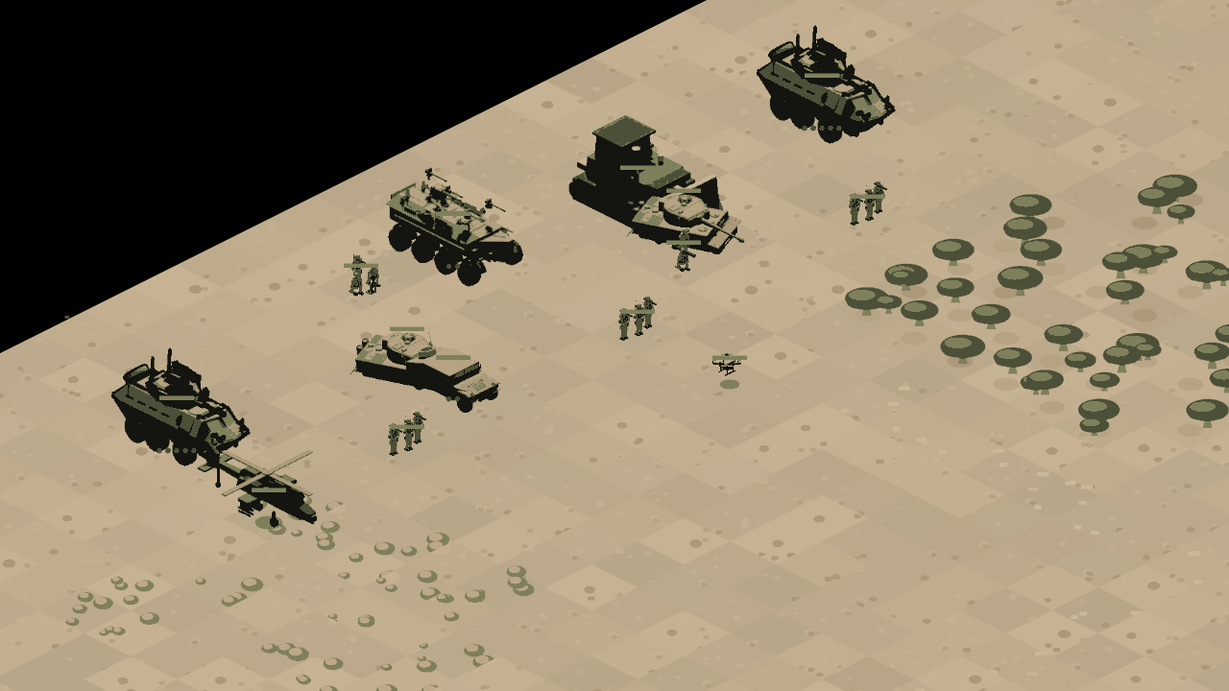
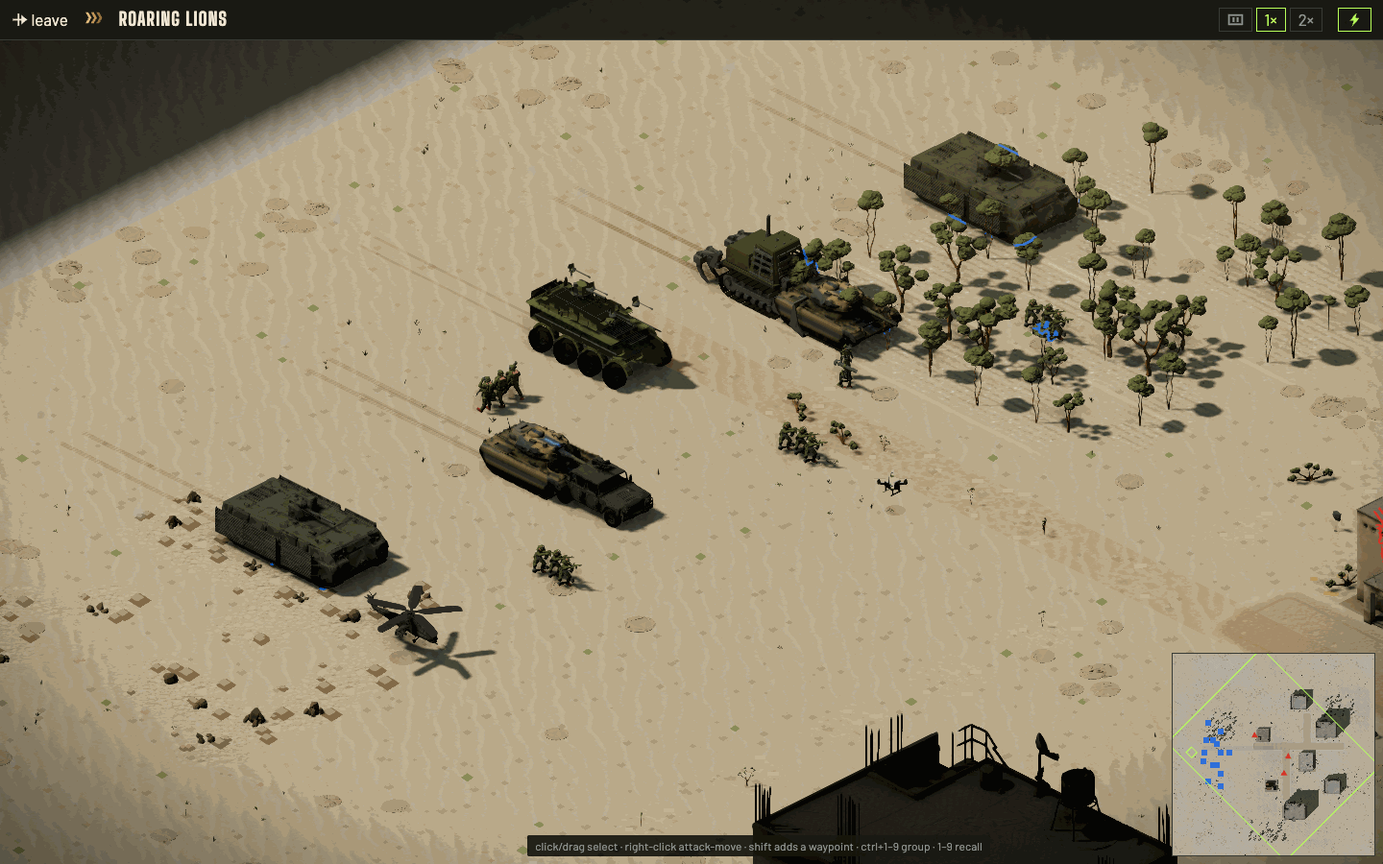
docs(readme): rewrite for the September build
Rewrite the README around the shipped three.js build: menu, Free play, controls, telemetry, campaign, brigade, presentation, audio, gates, CI, workspace and licence, every claim checked against the tree.
Recapture both screenshots from the lit mesh renderer (2026-09-30, 1440x900, octree-quantised PNGs under 300 KB) in place of the 2026-08-16 Pixi sprite frames.

diff --git a/README.md b/README.md
@@ -1,112 +1,144 @@
 # Roaring Lions
 
-A source-available, single-player real-time strategy game in the Command & Conquer tradition — 2:1 dimetric, TypeScript + three.js (PixiJS remains as a fallback via `?renderer=pixi`) — whose distinguishing claim is that combat **simulates real engagement odds** instead of trading hit points. Fights resolve through a detect → hit → penetrate → component-damage chain, and suppression, not damage, is the dominant battlefield force.
+A source-available real-time strategy game in the Command & Conquer tradition — 2:1 dimetric, TypeScript + three.js, a lit renderer drawing rigged 3D meshes (PixiJS remains as an unlit, sprite-only fallback via `?renderer=pixi`, slated for retirement) — whose distinguishing claim is that combat **simulates real engagement odds** instead of trading hit points. Fights resolve through a detect → hit → penetrate → component-damage chain, and suppression, not damage, is the dominant battlefield force. Single-player today; the sim is deterministic and command-driven so that multiplayer can follow.
 
 All geography and factions are fictional. Enemy forces are defined by military doctrine — tunnels and ambush, standoff fires, mobile raiding — never by ethnicity, nationality, or faith.
 
-![A company holds a walled compound against converging militia — tracers, suppression dust, and a burning approach](docs/screenshots/battle_wide.png)
+![First Light, ninety seconds in: a company holds a walled compound at dawn against militia converging from every approach — tracers, suppression, the reinforcements dock and the alert feed](docs/screenshots/battle_wide.png)
 
-## Status — M0 and M1 complete
-
-The combat model is the product, and it is calibrated: the backtest harness (`pnpm balance`) reproduces every validation target in the design document.
-
-| GDD §5.7 target | Measured |
-|---|---|
-| Urban assault needs ≈3:1 attacker:defender | 1:1 = 0% · 2:1 = 63% · **3:1 = 100%** · 4:1 = 100%<br>(was 1:1 = 0% · 2:1 = 15% · 3:1 = 95% · 4:1 = 100% before group formations, 2026-09-15; the old 2:1 was a stacking artifact) |
-| ATGM Pk vs unprotected armour ≈ 0.7 | **0.67** over 400 launches |
-| APS intercept 0.6–0.9 vs shaped charge | **0.73** |
-| Lanchester's square law emerges | 12v6 → 12.0 survivors (square-law predicts 10.4; linear 6) |
-| Air is contested by anti-aircraft fire | 1 gun truck → 80% survival · 3 → **0%** |
-
-M1 — the Beit Sahwan missions, campaign ledger and ROE scoring — is done. The programme now runs toward the next milestone, the commander's HUD and one visual register, due 30 October; the live ledger is [`docs/HANDOVER.md`](docs/HANDOVER.md).
+*Captured from the shipped three.js renderer on 2026-09-30 at 1440×900 (`beit_sahwan_breach`, sim tick 1300, zoom 1.0).*
 
 ## Play it
 
-**<https://roaring-lions.pint12.workers.dev>** — the current build.
+**<https://roaring-lions.pint12.workers.dev>** — the current build, served by a Cloudflare Worker built from `main`. Source and issues: <https://github.com/ilan-pinto/roaring-lions>.
 
-Pick a mission from the menu, or open the M0 sandbox. Left-drag selects,
-right-click orders, right-click a building garrisons the infantry that can
-enter it. `Ctrl`+`1`–`9` assigns a control group, `1`–`9` recalls it. Every
-roll the model makes is in the feed on the right; `o` hides it.
+The menu leads with where the campaign stands — "Start — <mission>" for a fresh player, "Continue — <mission>" once something has been played, gone once every mission is done — then Campaign and Brigade (and the tutorial by name until it is completed). Below that: replay the tutorial, free play on any map, Saves, Settings, New campaign (confirmed first; the brigade survives), the music/sound toggle, and Credits. The tutorial, *Beit Sahwan 0 — Working Up*, teaches the roster and control groups in 14 steps. Free play walks any shipped map with a full task force and optional extras — civilians with a refuge to shepherd them to, a pre-dug tunnel with two sapper squads to collapse it, the Sarim roster, an anti-tank ditch, no-fire ground — plus three diagnostic toggles (billboards instead of meshes, a showcase of every ground mark, a pre-kitted force).
+
+It needs a WebGL2-capable browser; the Pixi fallback is a manual switch, not an automatic one.
+
+The first minute:
+
+- Left-drag box-selects your units; a click that stays put selects the one unit under the cursor, and a click on empty ground clears the selection. A right-click on the ground is an attack-move — units engage what they meet on the way; there is no separate plain move from the mouse. `Shift` queues the order behind the current one.
+- Right-click a building and the troops that can enter it garrison it, while a demolisher — Combat Engineers or the D9 — levels it. Ordering an attack on a protected building (a hall) is refused unless `Alt` is held — the game will not spend your Conduct on an ambiguous click, and a note says why. A selection that is nothing but demolishers levels a protected building with no key needed.
+- `Ctrl`+`1`–`9` (`Cmd` on a Mac) assigns a control group, `1`–`9` recalls it, and a second tap within 400 ms centres the camera on it. `Ctrl`+`A` (`Cmd`+`A`) selects every unit; `Tab` cycles the HUD chips.
+- `h` halts, `f` lays smoke at the cursor, `g`/`u` load and unload, `i` selects the next idle unit, `Space` jumps to the latest alert, `b` focuses the reinforcements dock, `m` mutes. `W`/`S`/`A`/`D` and the arrows pan; the wheel zooms; the minimap takes right-click orders too. `F1` lists every binding, `Esc` backs out of whatever is open or armed and otherwise pauses, and every binding except `Tab` and `Esc` can be rebound under Settings › Controls; the control-group digits, the arrow keys and the mouse buttons are fixed.
+- With units selected, hover a visible enemy and the *Projected fire* panel beside it shows each unit's hit chance — and what is degrading it — before you commit to the shot. Press `o` (rebindable) to open the debug overlay — while it is open, every hit, penetration and APS roll the model makes streams through its feed with the full factor breakdown.
+
+The live build sends play telemetry to `/api/events` on the same origin: a random player id kept in `localStorage`, a per-load session id, and session, tutorial-step, heartbeat, mission start/objective/end, campaign-progress and brigade-account events (credits, unlocks, upgrades, purchases, unit and order counts). The game's own database keeps no e-mail, IP or URL — the connecting IP is used only in memory to rate-limit — but Cloudflare's persisted Workers Logs and traces keep each request URL with its query string, so a `?tester=` label lands there too. It is off in dev builds and on localhost unless `?telemetry` is on the URL, honours Global Privacy Control and Do Not Track (which win even over `?telemetry`), and `?notrack` opts out and persists that choice in `localStorage`; `?tester=<name>` labels a tester cohort. Aggregates are read on `/stats`, which is password-protected.
 
 ## What is in it
 
-![The roster in the sandbox — armour, an APC, a dozer, a gunship, infantry and a recon drone](docs/screenshots/units.png)
+![The Free play task force on Beit Sahwan's outskirts — two Lavi tanks, two Namers, an Eitan, the D9, a jeep, a Peten gunship, infantry, an AT team, a mortar team and a recon drone, drawn as lit 3D meshes](docs/screenshots/units.png)
 
-**Combat.** Detection, six-factor hit resolution, penetration curves, component
-damage (mobility and firepower kills are separate outcomes), APS interception,
-suppression and rout. Hover a target to see the projected hit chance before you
-commit to the shot.
+*Captured from the shipped three.js renderer on 2026-09-30 at 1440×900 (`/free-play/beit_sahwan_outskirts`, the force walked five tiles off its assembly point, zoom 1.6).*
 
-**Missions.** Five authored missions in Beit Sahwan — a tutorial that teaches
-the roster and control groups, a recon sweep, a foothold, a clearance, and the
-First Light defence. Objectives are declarative data, never TypeScript:
-`survive_until`, `hold_for`, `locate`, `capture`, `eliminate_hvt`,
-`destroy_all`, `evacuate_before`. Missions target 5–7 minutes, so a balance
-change can actually be re-tested.
+**Combat.** Detection, six-factor hit resolution, penetration curves, component damage (mobility and firepower kills are separate outcomes), APS interception, suppression and rout. Cover is the big lever: `COVER_HIT` steps 1 / .375 / .1375 / .09 and `COVER_SUPP` 1 / .475 / .1375 / .09 — a dug-in target is both harder to hit and harder to pin, which is why clearing a held town takes roughly 3:1. Every knob the balance backtest calibrates against the GDD §5.7 targets lives in `packages/sim/src/tuning.ts`, mostly as raw Q16.16 integers with the decimal value in a trailing comment (tick counts, shifts and percent weights are plain integers), sectioned by GDD §5.1–5.6 followed by projectiles, veterancy, movement, smoke and the other ability knobs.
 
-**Campaign.** A ledger carries surviving units, Conduct ratings and intel between
-missions, with a world map of the Sahar Basin. Rules of engagement are scored,
-and unit unlocks are gated on that score — collateral damage costs you options
-rather than a lecture.
+**Missions and campaign.** 27 mission files: 26 campaign missions plus the tutorial. Three fronts open in order on a 3D diorama of the Sahar Basin that you turn by drag, arrow keys or the rotate buttons (a flat map stands in on the Pixi renderer, or when WebGL2 or the board mesh is unavailable): the Marj Strip (Beit Sahwan 5, Khan Rafid 3, Deir Amun 3), Sur (Tel Marum 3, Qarn Hadid 3, Umm Zeitoun 4) and Naharin (Wadi Halam 5). The war opens with *First Light*, a dawn siege — what is left of a company holds a compound on the Beit Sahwan road until the relief column arrives, the one mission whose lead phase is `breach`; every other mission is led by one of the five remaining phases — recon, foothold, build-up, clearance or subterranean. Each town shows missions done and stars earned, each front carries a villain card, and the board keeps the account of the 19 taken, moved only by rescues. Objectives are declarative data, never TypeScript: the schema's vocabulary is twelve types — `locate`, `hold_for`, `survive_until`, `capture`, `eliminate_hvt`, `evacuate_before`, `collapse`, `raze`, `destroy_all`, plus `mark`, `escort` and `no_collateral_above`, which the schema accepts but the runtime rejects (`MissionRuntime` throws on them) and no mission uses. Every shipped mission declares `target_minutes` (all 27 do, 5–7 minutes, tutorial 10), and the schema caps the value: `minimum: 5`, `maximum: 7` via an `if/then/else` at the schema root whose one named exemption is `beit_sahwan_0_tutorial` at 10. The field itself is optional (`default: 6`). The sim never reads it and it is never graded; the app shows it on the post-mission debrief as "Time: {clock} of {target}:00", and the Worker's /stats page shows it as each mission's Target column. `pnpm playtest` proves each of the 26 campaign missions winnable by a scripted plan (the tutorial is a step machine driven by player input and has no plan).
 
-**Command.** Control groups, attack-move that sweeps toward last contact instead
-of stalling, garrisoning, smoke screens, field production and reinforcement, and
-intel sinks — a satellite sweep and a precision strike.
+**Conduct and progression.** Every mission scores Conduct 0–100 — civilian casualties, damage to flagged structures and disproportionate ordnance deduct — and each victory is graded ★ (won), ★★ (Conduct at or above the mission's floor + 20, or 70 where none is declared) or ★★★ (Ari'im citation: every carrying secondary complete — a mission with none caps at ★★, and only 7 of the 27 missions declare one). A ledger carries named units with a service record (150 on strength, the overflow in reserve), Conduct ratings, stars, intel, evacuated civilians and recovered hostages between missions; promotion runs Captain → Major → Lieutenant Colonel → Colonel. Units unlock on campaign-average Conduct (floors of 70–90 on nine units, `mbt_lavi` at 90), on total stars (12, 30 and 44 for `breach_team`, `scout_shachaf` and `apc_kipod`), or by paying a price in credits — the earned path is always free, and collateral damage costs you options rather than a lecture.
 
-**Presentation.** Sprites rendered through a locked 36-colour palette and a
-Blender rig, speed-linked walk cycles, turret settle, recoil and hit flinch,
-persistent wreckage, and data-driven VFX emitters authored as JSON. The
-simulation never sees any of it — invariant 4 is one-way.
+**Brigade.** A campaign win pays credits: 100 for the win, 40 per carrying secondary completed, 10 per starting-force unit brought home, 1 per Conduct point over the ★★ floor; a replay pays only the improvement, a defeat nothing. Spend them in the garage: open a gated unit early, or buy three-tier `armour`, `sensors` and `firepower` tracks that apply to every unit of that type — each track priced on its own, so `inf_squad` armour runs 115/175/250 while its firepower runs 145/220/305, and `mbt_lavi` armour runs 360/545/770 against 455/680/950 for firepower (the D9 and the recon drone carry armour and sensors only). Bought tiers are applied by a pure pre-pass (`applyUpgrades` in `@lions/data`, run by the app before `sim.addUnitType`), so the sim registers already-patched unit JSON and never learns a tier exists. Credits are priced separately by `creditsFor` in `@lions/sim`, which the simulation itself never calls — only the app and the playtest harness do. The account survives a new campaign. Credits are never sold; three bought-only special-forces units are designed and staged under `docs/campaign/special_units/e5/`, not shipped.
+
+**Command.** Control groups with a group bar, attack-move that sweeps toward last contact instead of stalling, garrisoning, mount/dismount, smoke screens (carried by nine KDF types), demolition, field production and reinforcement from a dock, and intel sinks — a satellite sweep and a precision strike. Around the fight: an alert feed, an objectives tracker, a 210×210 minimap that shows the whole map but only the enemies you are currently observing, a pause menu with settings, save slots with export and import, a deploy screen that picks which veterans fill a mission's slots, and a debrief with Conduct deductions by reason, losses by name and the credit payout.
+
+**Presentation.** A lit three.js renderer since v0.63.0 (2026-09-15) — one directional sun with a map-wide shadow map, a hemisphere sky/ground bounce, ACES tone mapping with sRGB output, and a post chain with ambient occlusion (GTAO) and SMAA antialiasing; since v0.70.0 (2026-09-18) the video-quality preset gates it — `high` (the default) keeps AO, SMAA and a 4096 shadow map, `medium` drops AO, `low` drops both and halves the shadow map again. It draws rigged meshes for every unit, vehicle and building: 89 GLBs, Draco-encoded to 27.04 MiB in `assets/meshes/`, loaded per mission roster. Infantry crossfade between clips (code-authored in `rig.py` for the kit-built teams, supplied for the Meshy ones) and die on screen — three teams play an authored fall, the rest topple figure by figure into a prone wreck pose; vehicles pitch, roll and settle under motion and leave a persistent 3D wreck. The ground is a smooth surface over tile centres (the sim reads only the integer grid), splat-blended, with roads that read as tracks, a decal pool, clustered scatter, props, trees that sway, dust haze and dawn/day/dusk/night presets a mission can set (`night` currently lights as dusk). Mortar bombs and rockets arc, tank and autocannon rounds fly as bolts, the Spike climbs and dives onto the roof while other guided missiles weave in low, and every vehicle kill has a blast with a real light, screen shake and hit-stop. Colour is still authored from `data/palette.json` — 41 ramp colours plus runtime-only VFX, team and control-group bands (18 colours) and the team band's colour-vision-deficiency variants, 71 declared slots in all — as the input to lighting, but the per-pixel palette guarantee was retired on this backend on 2026-09-14. Sprite sheets still ship too — 43 sheets, 3,787 PNGs, 63.4 MiB in `assets/sprites/` — and not only for `?renderer=pixi` and `&nomesh`: the default renderer still draws the six unit types with no GLB (`gun_truck`, the three drones, `manpad_team`, `recoilless_team`) from their sheets, falls back to a sheet wreck for a vehicle whose GLB has no `wreck` clip, and billboards a just-built unit until its mesh lands. The simulation never sees any of it (Architecture, invariant 4).
+
+**Audio.** Music, SFX sets and voice lines are declared in `data/audio.json` and gated by `pnpm validate:audio`. A voice director picks one line per gesture from the cursor's winning verb and degrades repeats line → acknowledgement → silence; the brigade speaks Hebrew, Ashwar, Sarim and Rif speak Arabic, civilians are silent. Ten Hebrew voice files ship so far — five recordings covering four of the manifest's twenty Hebrew lines (ack, move, attack, and two takes of death), each in ogg and m4a — and no Arabic ones; a line with no recording plays nothing and is noted once per key in dev builds, never raised as an error. Every unplaced voice line — an order acknowledged, a KDF death called in, the radio in the player's ear — passes through a 300–3400 Hz radio band; enemy death lines are placed in the world instead and skip it. The walkie-talkie effect (drive, compression, key-up click, squelch, noise bed) is on by default and applied at playback, so the files stay clean. A captions setting prints the line's English text above the order row.
+
+## Status
+
+The combat model is the product, and it is calibrated. `pnpm balance` runs six cases twice — on the shipped roster and again with every KDF unit at its maximum upgrade tiers — and both tables must pass; it exits 1 on any miss, takes roughly 40–50 s on Apple silicon (two runs on 2026-09-30 printed 45.4 s and 48.6 s; the figure moves with machine load) and runs in CI on every PR and every push to main. Four cases are the GDD §5.7 targets; the air case is the harness's own addition, and the smoke step is a separate GDD-specified case (lead ruling D1, 2026-09-29) that §5.7 deliberately keeps outside the four model targets. The GDD's three extended targets (ambush, standoff, raid) are not measured by anything yet.
+
+| Backtest case | Base roster | Max upgrade tier |
+|---|---|---|
+| Urban assault needs ≈3:1 attacker:defender (60 seeds per ratio) | 1:1 = 0% · 2:1 = 63% · **3:1 = 100%** · 4:1 = 100% | 1:1 = 0% · 2:1 = 55% · **3:1 = 80%** · 4:1 = 98% |
+| Smoke buys exactly one ratio step (one screen per assault group) | 1:1+smoke = 0% · **2:1+smoke = 100%** (60/60) | 1:1+smoke = 0% · **2:1+smoke = 97%** (58/60) |
+| ATGM Pk vs unprotected armour ≈ 0.7 (0.60–0.80) | **0.67** over 400 launches | **0.77** over 400 launches |
+| APS intercept 0.6–0.9 vs shaped charge | **0.73** over 400 engagements | **0.73** over 400 engagements |
+| Lanchester's square law emerges (20 seeds per case) | 12v6 → 12.0 survivors (square 10.4, linear 6) · 16v8 → 16.0 (square 13.9, linear 8) | same |
+| Air is contested by AA (harness target, not in GDD §5.7; 30 seeds per case) | 1 gun truck → 80% survival · 2 → 0% · 3 → **0%** | 1 → 100% · 2 → 30% · 3 → **30%** |
+
+Before group formations landed (2026-09-15) the urban 2:1 read 15%, and that was a stacking artifact — every group member sent to one tile inside the near-miss suppression radius — not a property of the town. Where the GDD's formula text and its §5.7 targets disagree, a passing backtest wins.
+
+Done: the calibrated combat model (M0) and the Beit Sahwan arc with its campaign ledger and Conduct scoring, and six more town arcs followed — 26 campaign missions in seven towns, plus a tutorial, as of v0.94.0. The shell upgrade has landed its first three phases — a router, settings, a pause menu, save slots, an alert feed, an objectives tracker, the minimap and the garage — and unit voices arrived beside it as their own audio work; Phase 3's remaining half (deploy as a decision, victory and defeat moments, and the art pass over garage plates, portraits, key art and the campaign board) is in flight, and Phase 4 (Steam Deck, controller) is unscheduled. The programme now runs toward the commander's HUD and one visual register, due 30 October 2026 (the ledger's M1; then 27 November, 12 February and 16 April 2027). The live ledger is [`docs/HANDOVER.md`](docs/HANDOVER.md).
 
 ## Quickstart
 
+Node 22 (what CI runs; the repo does not pin Node, and the lead develops on Node 25 — the one known difference is vitest's jsdom `localStorage`) and pnpm 11.17.0 (the `packageManager` pin in `package.json`). The sprite gate needs Python 3 with `numpy` and `pillow`, and the audio gate needs Python 3 with `numpy`; the mesh gate needs both of those plus Blender (CI installs 5.2.0), found through `BLENDER_BIN`, `blender` on `PATH`, the macOS `/Applications/Blender.app`, or `--blender`; the visual gate and the UI tools need Playwright Chromium.
+
 ```bash
 pnpm install
-pnpm dev          # M0 sandbox: click to select, right-click to attack-move
+pnpm dev          # Vite on http://localhost:5173 — the main menu; /free-play/<map id> (or ?sandbox=<map id>) walks a map without a mission
 ```
 
-In the sandbox, every roll the model makes — detection probability, the six hit factors, penetration curve, component result, APS intercept, suppression — streams through the debug overlay. `window.__lions.step(n)` in the console fast-forwards n deterministic ticks.
+On any battlefield — a mission or Free play — press `o` to open the debug overlay: every hit, penetration and APS roll the model makes while it is open streams through it — a status pane on the left, the roll feed on the right; it is off by default. In the console, `__lions.help()` (also printed automatically on every Free play boot) prints the map that loaded, which flags are on, the Free play extras (`&roe`, `&tunnel`, `&sur`, `&civ`, `&ditch`, `&nomesh`, `&decals`, `&kit`, plus `&tod=dawn|day|dusk|night`), every shipped map id, and the console helpers it lists — `step(n)`, `goto(marker)`, `units()`, `sel([id])`, `cursorKey()`, `voiceLog()`; `hover(x, y)` is on `__lions` too but is not in the printed line. Other URL parameters the build reads (`renderer`, `lang`, `nosw`, `pseudo`, `voicetick`, `fresh`, `tutorial`) are not printed by help. `__lions` exists only on a battlefield; the menu defines none.
 
-| Command | What it does |
-|---|---|
-| `pnpm test` | unit tests |
-| `pnpm test:determinism` | 1000-tick replay against a pinned state hash |
-| `pnpm lint` | includes mechanical enforcement of the sim invariants |
-| `pnpm validate:data` | JSON Schema gate on all content |
-| `pnpm validate:assets` | palette + silhouette gate (needs `numpy`, `pillow`) |
-| `pnpm validate:ui` | rejects colour literals in UI source |
-| `pnpm balance` | headless backtest against the §5.7 targets |
+| Command | What it does | Needs |
+|---|---|---|
+| `pnpm test` | unit tests — 366 files, 7,472 specs; roughly 1¼ min locally (72–80 s over two runs, 2026-09-30) | — |
+| `pnpm test:determinism` | 1000-tick replay against the pinned hash `2109596329`; CI runs it on Linux, macOS and Windows | — |
+| `pnpm typecheck` | `tsc --noEmit` across the workspace | — |
+| `pnpm lint` | eslint; inside `@lions/sim` it bans `Math`, `Date`, wall-clock APIs, `crypto`, float literals and any non-relative import (invariants 1–3), and it pins the `app → render → sim` dependency direction and the dynamic-import-only rule for the three.js and Pixi entry points | — |
+| `pnpm validate:data` | JSON Schema gate on every content file — units, missions, VFX, maps, the tutorial, the campaign (`world`, `countries`, `commander`, `names`) and the menu diorama — plus palette, structure and cross-reference sanity checks | — |
+| `pnpm validate:assets` | sprite gate: palette and reserved-band colours, binary alpha, framing, manifest/sheet completeness, silhouette fill and pairwise-silhouette IoU on every sheet in `assets/sprites/` | Python 3, `numpy`, `pillow` |
+| `pnpm validate:meshes` | the same checks on every unit, building and vehicle GLB under `art/meshes/`, rendered headlessly through Blender (textured buildings skip the palette check), plus the building-facing gate and the vehicle wreck contract; `decor/`, `props/`, `vfx/` and `campaign/` GLBs are contract-checked from the raw bytes and never rendered | Python 3, Blender 5.2, `numpy`, `pillow` |
+| `pnpm validate:ui` | UI source gate: no colour literals, no unresolved tokens and no raw `--rl-*` outside `theme.css`, no untagged layout `px`, no retired dingbat glyphs, and no bare chrome string assigned straight to the DOM | — |
+| `pnpm validate:audio` | licence, source, format, size and gain gate on every clip and voice line | Python 3, `numpy` |
+| `pnpm balance` | the six backtest cases above, base and max-tier rosters; exits 1 on any miss | — |
+| `pnpm playtest` | every campaign mission (26 of the 27 authored; the player-driven tutorial is excluded) must be won at ★★ or better within 20 minutes by a scripted plan through the real sim and mission runtime, headless, and each town's passive no-orders control must lose | — |
+| `pnpm perf:units` | times `sim.tick()` at 65, 150, 300 and 400 units, fails past a budget | — |
+| `pnpm encode:meshes` | Draco-compress `art/meshes/` into the `assets/meshes/` that ships (`-- --check` in CI) | — |
+| `pnpm golden-baseline` | three-vs-three visual gate against `tools/golden-baselines/<envKey>/`; `:bless -- --reason="…"` accepts a change; exit 3 means no baseline for this environment | Playwright Chromium |
+| `pnpm ui:routes` | Playwright walk of the shell in one realm: leave a mission and soft-boot another with no reload and nothing left behind, then the garage, unit voices, the kit sign on every icon, and a guard that no telemetry is sent; starts its own dev server (`--port=<n>`, default 5177) | Playwright Chromium |
+| `pnpm ui:shots` | screenshot 34 named shell screens and HUD states (menu, campaign, brigade, briefing, HUD, pause, settings, credits, saves, outcome, debrief …) at 1400×900, 1920×1080 and 2560×1440 into `.superpowers/ui-shots/`; boots its own dev server on :5176 | Playwright Chromium |
+| `pnpm meshy -- <cmd>` | Meshy text/image-to-3D proxy with an estimate before any spend and a ledger | `MESHY_API_KEY` or `~/.config/roaring-lions/meshy.env` |
+| `pnpm build` | production build to `packages/app/dist`, what the Cloudflare Worker serves | — |
 
-Two headless walkers exist for content that no unit test can see, because each
-test builds its own small world rather than loading an authored one:
+The cost-curve gate, `python tools/validate_balance.py`, has no pnpm script; CI runs it four times (base roster and the staged special units, each again at max tier).
+
+CI (`.github/workflows/ci.yml`) runs on every pull request and every push to `main`: a `gates` job running lint, typecheck, test, every validator, `encode:meshes -- --check`, the cost-curve gate, `balance`, `playtest`, `perf:units` and `build`; a `visual` job with the golden gate and `ui:routes`; `test:determinism` on Ubuntu, macOS and Windows; and a `version` job that, once all three pass on a push to `main`, bumps the version and tags a release when the commits since the last tag include a `feat` (minor) or `fix` (patch) — docs-only merges cut nothing. A nightly (`visual-baseline.yml`, scheduled for 03:00 UTC — recent runs have actually started around 08:30–09:40 UTC) re-runs the visual gate against the committed Linux baseline and, on any failure, opens or comments on a single `visual-baseline` issue rather than filing a new one each night. Cloudflare's GitHub integration adds a `Workers Builds: roaring-lions` check to each pull request (observed on the five most recent, docs-only included); that check is configured in the Cloudflare dashboard, not in this repository.
+
+Three headless walkers — `walk_mission.ts`, `walk_placements.ts` and `walk_carryover.ts` under `tools/src/` — load an authored mission the way the app does and print what it actually does at chosen times, which is how content bugs that pass every fixture-based test (a trigger naming an undeclared group, a drop timed after the carrier has driven past) get found. None is a pnpm script, and `tsx` is a devDependency of the tools workspace only, so each runs through it:
 
 ```bash
-npx tsx tools/src/walk_mission.ts beit_sahwan_breach 0 60 150 300
+pnpm --filter @lions/tools exec tsx src/walk_mission.ts beit_sahwan_breach 0 60 150 300   # the real mission's world at chosen seconds
+pnpm --filter @lions/tools exec tsx src/walk_placements.ts wadi_halam_5_depot              # the map with every placement overlaid; fails on a bad one
+pnpm --filter @lions/tools exec tsx src/walk_carryover.ts                                  # Beit Sahwan I's recon intel (intel.marked_positions) carried into III: fresh vs carried spawns side by side, fails on a tag the two missions disagree on
 ```
 
-prints the real mission's world at chosen seconds — the tool that catches a
-trigger timed past the end of a mission, or a group nothing commits.
+The first is the tool that catches a trigger timed past the end of a mission, or a group nothing commits.
 
 ## Architecture
 
-pnpm workspace, one-way dependency direction: `app → render → sim`, with `data` as a leaf and `tools` alongside.
+pnpm workspace with a one-way dependency direction: `app → render → sim`, with `data` a leaf that `app`, `tools` and `worker` also import; `tools` sits alongside (it may import `sim` and `data` only), and `packages/worker` — the Cloudflare Worker that serves the build and the telemetry endpoints (`/api/events` into D1, `/stats`) — imports only `data`. Lint enforces the direction for `sim`, `render`, `data` and `tools`. The renderer sits behind one interface (`packages/render/src/api.ts`), and both backends arrive by dynamic import, so a player downloads only the one they run.
 
 Four load-bearing invariants (see `CLAUDE.md`):
 
-1. The sim runs a fixed 20 Hz tick; the renderer interpolates.
-2. `@lions/sim` is Q16.16 fixed-point — no floats, no `Math.*`, enforced by lint. Trig/exp/Φ come from committed lookup tables.
+1. The sim runs a fixed 20 Hz tick; the renderer interpolates between ticks on every frame.
+2. `@lions/sim` is Q16.16 fixed-point (`fixed.ts`, `ONE = 65536`). Lint bans `Math`, `Date`, `parseFloat`, wall-clock timers, `crypto` and float literals in `packages/sim/src` (test files exempt, so they can use `Math` as an oracle); `pnpm test:determinism` pins the replay hash. Trig/exp/Φ come from committed lookup tables (`packages/sim/src/gen/tables.ts`); `pnpm gen:luts` regenerates them, and the sim reads the committed integers rather than computing them, so another engine's `Math.*` cannot leak into the sim at all. Only the committed file is the source of truth: regenerating on a different engine can move an entry by 1 ulp, and the determinism hash catches that only where the replay reads that entry, so a regenerated table must be diffed, not trusted.
 3. All randomness is a seeded per-entity PRNG — entity counts can change mid-mission without reshuffling anyone's rolls.
 4. Commands in → sim → state + events out. Nothing outside the sim mutates sim state.
 
-Determinism is not aspirational: CI replays 1000 ticks on Linux, macOS, and Windows and asserts the same golden hash.
+Determinism is not aspirational: `pnpm test:determinism` replays 1000 ticks from seed `0x1310_0001` twice and asserts the golden hash `2109596329`, and CI runs it on Linux, macOS and Windows. Content is JSON validated against `data/schemas/`; a new unit is JSON plus art — a mesh, and a sprite sheet for the billboard path — and the sim never changes for it, though the app's asset tables (`mesh-catalogue.ts`, `SPRITE_MAP`) still need an entry.
 
 ## Contributing
 
-Read `CONTRIBUTING.md` first — units, missions, VFX, and maps are JSON gated by validators; art goes through a locked render rig with a 36-colour palette and a silhouette-readability check. The cost-curve and headless-battle gates mean balance arguments are had with evidence.
+Read `CONTRIBUTING.md` first — units, missions, VFX and maps are JSON gated by validators (missions target 5–7 minutes and the schema is the authority, where `CONTRIBUTING.md` still says 12–20), and `python tools/validate_balance.py` holds every non-civilian unit to within ±18% of the fitted cost curve. Sprites go through the locked render rig (`tools/render_rig.py`) and `pnpm validate:assets`, which enforces exact palette match, binary alpha, framing, minimum fill and a pairwise silhouette-readability check (IoU under 0.88 at gameplay zoom). Meshes go through `pnpm validate:meshes`, which renders every unit, vehicle and building GLB headlessly and reuses those same checks — except that thirteen named textured buildings and vehicles are exempt from the palette, framing and fill checks and keep only the silhouette check, and decor, props and VFX meshes are checked against the mesh contract alone. A mesh style bible (`docs/art/style-bible.md`) is drafted and awaiting the lead's approval; it is guidance for new meshes, not a gate. AI-generated art is permitted, including for shipping assets, provided the PR discloses it. `docs/ASSET_PROVENANCE.md` is a dated snapshot of where shipped assets came from and which cannot ship as-is — not a gate, and by its own account still missing an origin for 33 meshes. Contributions are accepted under `CLA.md` with a DCO sign-off (`git commit -s`).
 
-Design documents: [`docs/GDD.md`](docs/GDD.md) · [`docs/ART_PIPELINE.md`](docs/ART_PIPELINE.md)
+## Documents
+
+- [`docs/GDD.md`](docs/GDD.md) — what the game is; §5.7 is the authority over §5's formula text
+- [`docs/HANDOVER.md`](docs/HANDOVER.md) — the programme ledger: lanes, gates, milestones, landed log, open decisions
+- [`CLAUDE.md`](CLAUDE.md) — how to work here
+- [`docs/ART_PIPELINE.md`](docs/ART_PIPELINE.md) · [`docs/art/style-bible.md`](docs/art/style-bible.md) · [`docs/ASSET_PROVENANCE.md`](docs/ASSET_PROVENANCE.md) — how art is made, judged and accounted for
+- [`docs/campaign/README.md`](docs/campaign/README.md) (the campaign design contract) · [`docs/campaign/storyline.md`](docs/campaign/storyline.md) · [`docs/campaign/names.md`](docs/campaign/names.md) and [`docs/campaign/heroes/concepts.md`](docs/campaign/heroes/concepts.md) (naming and hero rules for mission authors) · [`docs/campaign/economy/prices.md`](docs/campaign/economy/prices.md) · [`docs/campaign/economy/upgrades.md`](docs/campaign/economy/upgrades.md)
+- [`docs/PERFORMANCE.md`](docs/PERFORMANCE.md) — sim and renderer budgets with capture conditions; re-run before quoting
+- [`docs/design/README.md`](docs/design/README.md) — the HUD spec and wireframes, design intent rather than a contract with the code
+- [`data/locales/README.md`](data/locales/README.md) — how mission-text localisation is meant to work; the app ships `en` only
+- `docs/superpowers/specs/` (76 dated design specs) and `docs/superpowers/plans/` (67 implementation plans)
+- [`CONTRIBUTING.md`](CONTRIBUTING.md) · [`CLA.md`](CLA.md) · [`LICENSE`](LICENSE) · [`data/LICENSE.md`](data/LICENSE.md)
 
 ## License
 
-Code is source-available under the PolyForm Noncommercial License 1.0.0 (`LICENSE`): read, run, modify and contribute for noncommercial use; commercial and closed licensing is the project owner's alone. Art and game data are all rights reserved (see `data/LICENSE.md`). Contributions are accepted under `CLA.md` with a DCO sign-off (`git commit -s`). The code was MIT before 2026-09-18, and copies obtained under MIT stay MIT.
+Code is source-available under the PolyForm Noncommercial License 1.0.0 ([`LICENSE`](LICENSE)): read, run, modify and contribute for noncommercial use; commercial and closed licensing is the project owner's alone. Art and game data are all rights reserved (see [`data/LICENSE.md`](data/LICENSE.md)). Contributions are accepted under [`CLA.md`](CLA.md) with a DCO sign-off (`git commit -s`). The code was MIT before 2026-09-18, and copies obtained under MIT stay MIT.
